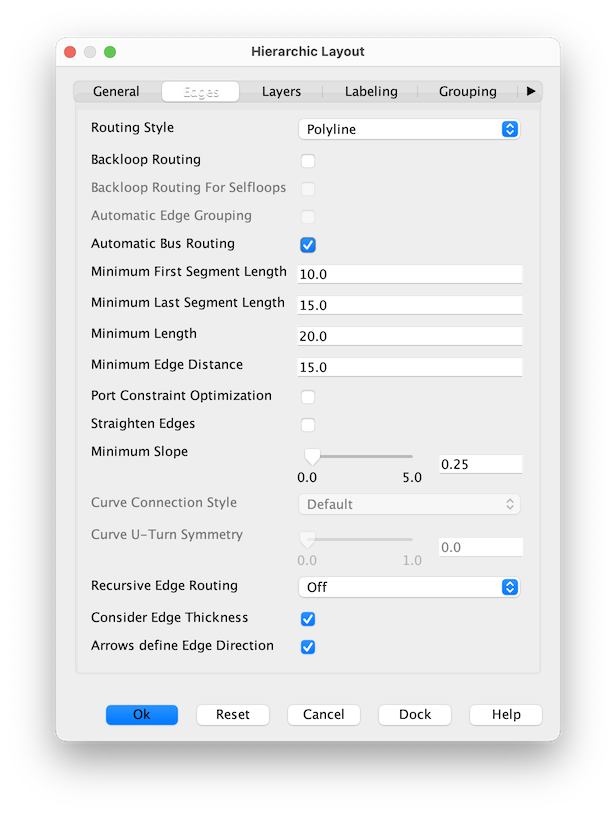
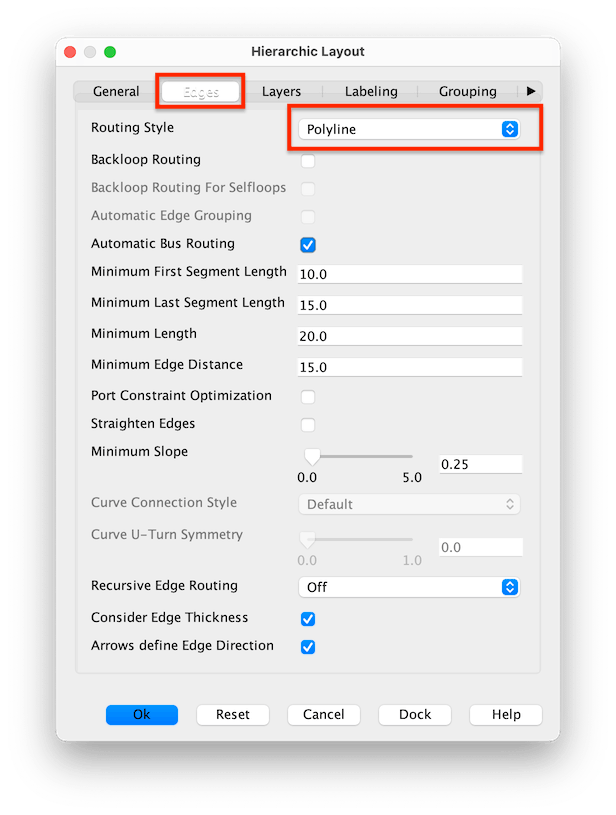
fmGraphIt docs improved

diff --git a/_sass/custom/custom.scss b/_sass/custom/custom.scss
@@ -332,20 +332,24 @@ kbd.win, .win kbd {
   transition: box-shadow 0.2s ease, background 0.2s ease;
 }
 
-.w-50pc {
-  width: 50%;
+.w-20pc {
+  width: 20%;
 }
 
 .w-25pc {
   width: 25%;
 }
 
-.w-20pc {
-  width: 20%;
-}
-
 .w-33pc {
   width: 33%;
+}
+
+.w-40pc {
+  width: 40%;
+}
+
+.w-50pc {
+  width: 50%;
 }
 
 .w-75pc {

diff --git a/fmgraphit.md b/fmgraphit.md
@@ -1,8 +1,8 @@
 ---
 title: fmGraphIt
 strapline: Connect the dots
-parent: Other Tools and Modules
-nav_order: 30
+parent: More Utilities
+nav_order: 0040
 layout: default
 ---
 - TOC
@@ -56,31 +56,32 @@ And an interactive diagramme is worth a thouand beers! 🍻
 
 ## Installing fmGraphIt
 
-To generate a field dependency graph from the field definitions of one table you will need 
+To generate a field dependency graph from the field definitions of one table you will need
 
-![](/assets/images/fmworkmate-and-fmcheckmate.png){: .float-front-right .w-128}
+![fmWorkMate and fmCheckmate](/assets/images/fmworkmate-and-fmcheckmate.png){: .float-front-right .w-128}
 
-1. MrWatson's [fmWorkMate] toolbox (which includes the [fmCheckMate] tool)
+<details markdown="1">
+<summary>fmGraphIt is part of fmWorkMate and the fmCheckmate-XSLT library. If you already have them, you can skip this step.</summary>
 
-   - Download the [latest release of fmWorkMate from GitHub](https://github.com/mrwatson-de/fmWorkMate/releases/latest)
+1. [Install and Setup the fmWorkMate toolbox](fmworkmate.html#installation-and-setup) (which includes the [fmCheckMate] tool)
 
    ![](fmcheckmate-xslt.png){: .float-front-right .w-64}
 
-2. MrWatson's [fmCheckMate-XSLT] Library (which includes the graph creation function)
+2. Install MrWatson's [fmCheckMate-XSLT] Library (which includes the graph creation function)
 
-   - Download the [latest release of fmCheckMate-XSLT from GitHub](https://github.com/mrwatson-de/fmCheckMate-XSLT/releases/latest)
+</details>
 
-   ![](yed.png){: .float-front-right .w-64}
+![](yed.png){: .float-front-right .w-64}
 
-3. To visualise this field dependency graph you will need a graph visualisation tool.
+To visualise this field dependency graph you will need a graph visualisation tool.
 
-   - The free **yEd** software from **yWorks**
+- The free **yEd** software from **yWorks**
 
-   - Download the [latest version of yEd from yWorks](https://www.yworks.com/products/yed)
+- Download the [latest version of yEd from yWorks](https://www.yworks.com/products/yed)
 
-4. some yEd configuration files for formatting the graph (which are to be found in the xml/yEd folder of The **fmCheckMate-XSLT Library**)
+1. some yEd configuration files for formatting the graph (which are to be found in the xml/yEd folder of The **fmCheckMate-XSLT Library**)
 
-5. Finally, you need
+2. Finally, you need
 
    - A step-by-step guide to installing **fmGraphIt** ( **fmWorkMate**, the  **fmCheckMate-XSLT Library**, and yEd)
    - A tutorial on creating your first Field Dependency Graph
@@ -93,8 +94,10 @@ To generate a field dependency graph from the field definitions of one table you
 {: .fullwidth .mrw-schwarz-bg}
 **👌 OK, we are finally ready to go!**
 
-{% capture disclaimer %}
 
+{: .side-note .float-front-right}
+<details markdown="1">
+<summary>Disclaimer and Limitations</summary>
 **Disclaimer:**
 
 fmGraphIt's field dependency graphs are not rocket science—they're not always perfect—but they provide a quick overview of field structure without needing to create a DDR.
@@ -108,48 +111,96 @@ Since the FileMaker clipboard only contains field calculations as a string, the 
 
 See [How fmGraphIt works](how-fmgraphit-works.html) for more details on its limitations.
 
-{% endcapture %}<section class="side-note float-front-right">{{ disclaimer | markdownify }}</section>
+</details>
 
 ## Disclaimer
 
 Before you jump into **fmGraphIt** you should understand its limits.
 
-
 ## Getting Started
 
 Once you're set up, you can transform your fields into a stunning diagramme with just a few clicks
 
-1. Copy the fields of a table you are interested in
-2. Convert to XML with [fmCheckMate]
-3. Apply the Transformation `Analyse > Fields > Create field dependencies graph advanced` to create a graphml Field Dependency Graph
-   - This saves the `Clipboard.graphml` file to your documents folder, and opens it with the default editor
-   - 
-4. The graph is displayed in [yEd]
-   - Just seeing what looks like a dot?
-   - No problem, that's normal, read on.
-5. Open the property mapper with `Edit > Properties Mapper…`
-6. Apply the standard style
-   - Select `FDG: Template = Default (Node)`
-   - click `[Apply]`
-   - Click `[OK]`
-   - You'l see the dots get shape and colour, but are still all in a pile…
-7. Now apply a layout-strategy
-   - Select menu item `Layout`> `Hierarchal` or press <kbd>⌃</kbd><kbd>⌘</kbd><kbd>H</kbd>
-   - Check the layout settings:
-     - General
-        - Orientation: Top to Bottom
-     - Edges
-        - Routing Style: `Orthogonal` (`Polyline` is also good)
-   - Try a one-click layout
-   - Organic - to discover the complex bits
+1. Create a graphml file of your fields with [fmCheckMate]
+   1. Copy the fields of a table you are interested in
+   2. Convert to XML with [fmCheckMate]
+   3. Press `[T]` and apply the Transformation `Analyse > Fields > Create field dependencies graph advanced` to create a graphml Field Dependency Graph
+      - This saves the `Clipboard.graphml` file to your documents folder, and opens it with the default editor (yEd)
+2. Visualise the graph in yEd
+   1. The graph is initially displayed in [yEd] as a pile of dots
+      - No problem, that's normal, read on.
+   2. Apply style to the graph
+      - Open the property mapper with `Edit > Properties Mapper…`
+      - Apply the standard style
+        - Select `FDG: Template = Default (Node)`
+        - Click `[Apply]`
+      - Click `[OK]`
+      - You'l see the dots get shape and colour, but are still all in a pile…
+   3. Now apply a layout-strategy (`Hierarchical` is the best layout for showing data flow)
+     - Select menu item `Layout`> `Hierarchal` or press <kbd>⌃</kbd><kbd>⌘</kbd><kbd>H</kbd>
+     - Check the settings, particularly the `General` and `Edges` settings:
 
-et voila!
+       ![yEd Hierarchic Layout General Settings](/assets/images/yed-hierarchic-layout-general.png){: .w-40pc}![yEd Hierarchic Layout Edge Settings](/assets/images/yed-hierarchic-layout-edges.png){: .w-40pc}
+
+     - Click `[OK]` and watch the graph come to life!
+
+You should see something like the example graph below.
+
+Common issues and tips:
+
+<details markdown="1">
+<summary>Layout cramped or oriented?</summary>
+ - Try tweaking the layout settings for the best look:
+   - `General` > `Orientation`:
+     - `Top to Bottom` - recommended (because of the downward pointing triangles), particularly on smaller graphs
+     - `Left to Right` - can work better with many fields or long field names
+   - `Edges` > `Routing Style`: 
+     - `Polyline` - the default, and good for most graphs
+     - `Octilinear` - gives the graph a circuit-board look: great for nerds 🤓
+ - Alternatively try a different layouting strategry
+   - `One-Click Layout` - yEd does its best to find the right layout for your data
+   - `Organic` - to discover the complex bits
+   - `Circular` - to see the loops
+</details>
+
+<details markdown="1">
+<summary>Too complex?</summary>
+
+- Over full graphs can be difficult to navigate, so try to simplify the graph by removing some fields
+- Copy less fields to the clipboard in the first place
+- Remove all fields that have no dependencies (no arrows in or out)
+</details>
+
+<details markdown="1">
+<summary>Want to focus?</summary>
+
+- Zoom in on a particular area of the graph
+
+  ![yEd Zoom Tools](/assets/images/yed-zoom-tools.png)
+
+  - Select the magnifying glass tool
+  - Then select the nodes you want to zoom in on
+  - To return to the full view click the zoom out button on the right 
+- Select the field you are interested in and study its connections
+  - Use the `Context Views` from the `Windows` menu to focus on certain connections
+  - `Neighbourhood` - shows the input / output fields around the selected field
+  - `Predecessors` - shows the tree of input fields which feed the selected field
+  - `Successors` - shows all the output fields of the selected field
+</details>
 
 ## Example Field Dependency Graph
 
 The diagramme shows the field dependencies, or rather the data flow from the (squarish) input fields at the top to the (triangular) calculated output fields at the bottom.
 
 [![Example Field Dependency Graph](/assets/images/fmgraphit-example-field-dependency-graph.svg)](/assets/images/fmgraphit-example-field-dependency-graph.svg)
+
+### Legend
+
+Here is the legend to the shapes, colours and codes used in the graph:
+
+[![Field Dependency Graph Legend](/assets/images/fmgraphit-field-dependency-graph-legend.svg)](/assets/images/fmgraphit-field-dependency-graph-legend.svg)
+
+(Click the image for a large view)
 
 ## fmGraphIt Field Dependency Graph Explained
 
@@ -162,6 +213,9 @@ Each field is labelled with its name and some (cryptic but succinct) metadata:
 - `«field-name»` (`«data-type»`-`«storage-type»``«field-type»`)
 
 #### Data Type
+
+{: .side-note .w-40pc}
+That's the same letter as the shortcut key for the data type
 
 The data type is indicated by the following codes:
 
@@ -183,8 +237,8 @@ The data type is indicated by the following codes:
 `R`
 : Container
 
-{: .mrw-gold}
-That's the same letter as the shortcut key for the data type
+{: .side-note .w-33pc}
+Storage is also indicated by the [colour](#colours)
 
 #### Storage Type
 
@@ -208,8 +262,8 @@ Storage is indicated by the following codes
 `u`
 : **u**nstored
 
-{: .mrw-gold}
-Storage is also indicated by the [colour](#colours)
+{: .side-note .w-33pc}
+Field type is also indicated by the [shape](#shapes)
 
 #### Field Type
 
@@ -241,59 +295,51 @@ For variables the following codes are used (or rather will be one day):
 `$`
 : a **$$** global variable
 
-{: .mrw-gold}
-Field type is also indicated by the [shape](#shapes)
-
 ### Shapes
+
+{: .side-note .w-33pc}
+The pointier the shape, the more complex the [type of field](#field-type).<br>⏺→⏹→⏢→▶→*⃣
 
 The shape indicates the [field type](#field-type):
 
 - ⏹ Square shapes are input fields
 - ▶ Triangular shapes are output fields
-  - 🔼 Upwards pointing are data sources
-  - 🔽 Downwards pointing are data aggregators
-- ⏢ Tweeny shapes are a bit of both
+  - 🔼 Upwards pointing are data source fields (locked + initialised fields, creation date, etc.)
+  - 🔽 Downwards pointing are data aggregators (calculation fields)
+- ⏢ 'Tweeny' shapes are a bit of both
+  - 1/2 ⏹ + 1/2 ▶ = 1/2 input + 1/2 output = Auto-Enter fields
 - *⃣ Star shapes are summary fields
-
-{: .mrw-gold}
-The pointier the shape, the more complex the [type of field](#field-type).
-
-The least pointy shape - a circle - represents the simplest of storage structures: a variable.
+- ⏺ Circle shapes are variables.
 
 See the [Field Depency Graph Legend](#legend) for more details.
+
+{: .side-note .w-40pc}
+More colour → more storage<br>lighter → less CPU<br>darker → more CPU
 
 ### Colours
 
 The colour indicates the [storage type](#storage-type), and follow these simple guidelines:
 
-{: .mrw-gold}
-More colour = more storage, darker = more CPU
-
 See the `Storage vs CPU` part of the legend for more details.
 
 ### Top to Bottom Layout Orientation
 
-The shapes of the fields have been chosen to fit a top-down hierarchy well visually.
-
-{: .mrw-gold}
+{: .side-note .w-33pc}
 Data flows from top to bottom
 
-- source fields are at the top, comprising
-  - normal input fields (with/without Auto Enter)
-  - non-modifiable metadata fields ('output'fields)
-    - for example: id, creation date, etc.
-- auto-enter and calculation fields in the middle
-- calculation and summary fields are at the bottom
+The shapes of the fields have been chosen to fit a top-down hierarchy well visually.
+
+- At the top you find `source` and `input` fields`:
+  - 🔼 non-modifiable metadata fields ('output' source fields)
+  - ⏹ normal input fields (with/without Auto Enter)
+- In the middle you find fields that build on the source + input fields:
+  - ⏢ auto-enter fields
+  - 🔽 calculation fields
+- Towards the bottom you find the deeper 'aggregator' fields:`
+  - 🔽 calculation fields
+  - *⃣ summary fields
 
 Note: The arrows show data flow rather than dependency
-
-### Legend
-
-Here is the legend to the shapes, colours and codes used in the graph:
-
-[![Field Dependency Graph Legend](/assets/images/fmgraphit-field-dependency-graph-legend.svg)](/assets/images/fmgraphit-field-dependency-graph-legend.svg)
-
-(Click the image for a large view)
 
 ### Tooltip - Calculation Type
 
@@ -303,12 +349,15 @@ In the calculation in the tooltip, the kind of 'equals sign' used indicates what
 : Calculated field
 
 `:=`
-: Autoenter
+: Autoenter field
 
 `<=`
-: Lookup
+: Lookup field
 
-Note: This is a subset of the fmCheckMate Print fields function which uses the following detail
+
+
+<details markdown="1">
+<summary>Note: This is a subset of the fmCheckMate Print fields function</summary>
 
 `_ID :+1 7`
 : A field with auto-incremented serial number (Auto-Increment)
@@ -352,20 +401,7 @@ Note: This is a subset of the fmCheckMate Print fields function which uses the f
 `_List =∑¶: Names`
 : A statistic field = List of Text
 
-## Explore the different Layouts
-
-## Extract local views of nodes
-
-Want to focus on a particular field?
-
-- Select it
-- Choose one of the Context Views fro the Window menu:
-  - Neighbourhood - shows the input / output fields around the selected field
-  - Predecessors - shows the tree of input fields which feed the selected field
-  - Successors - shows all the output fields of the selected field
-
-
-     :
+</details>
 
 Enjoy!
 
